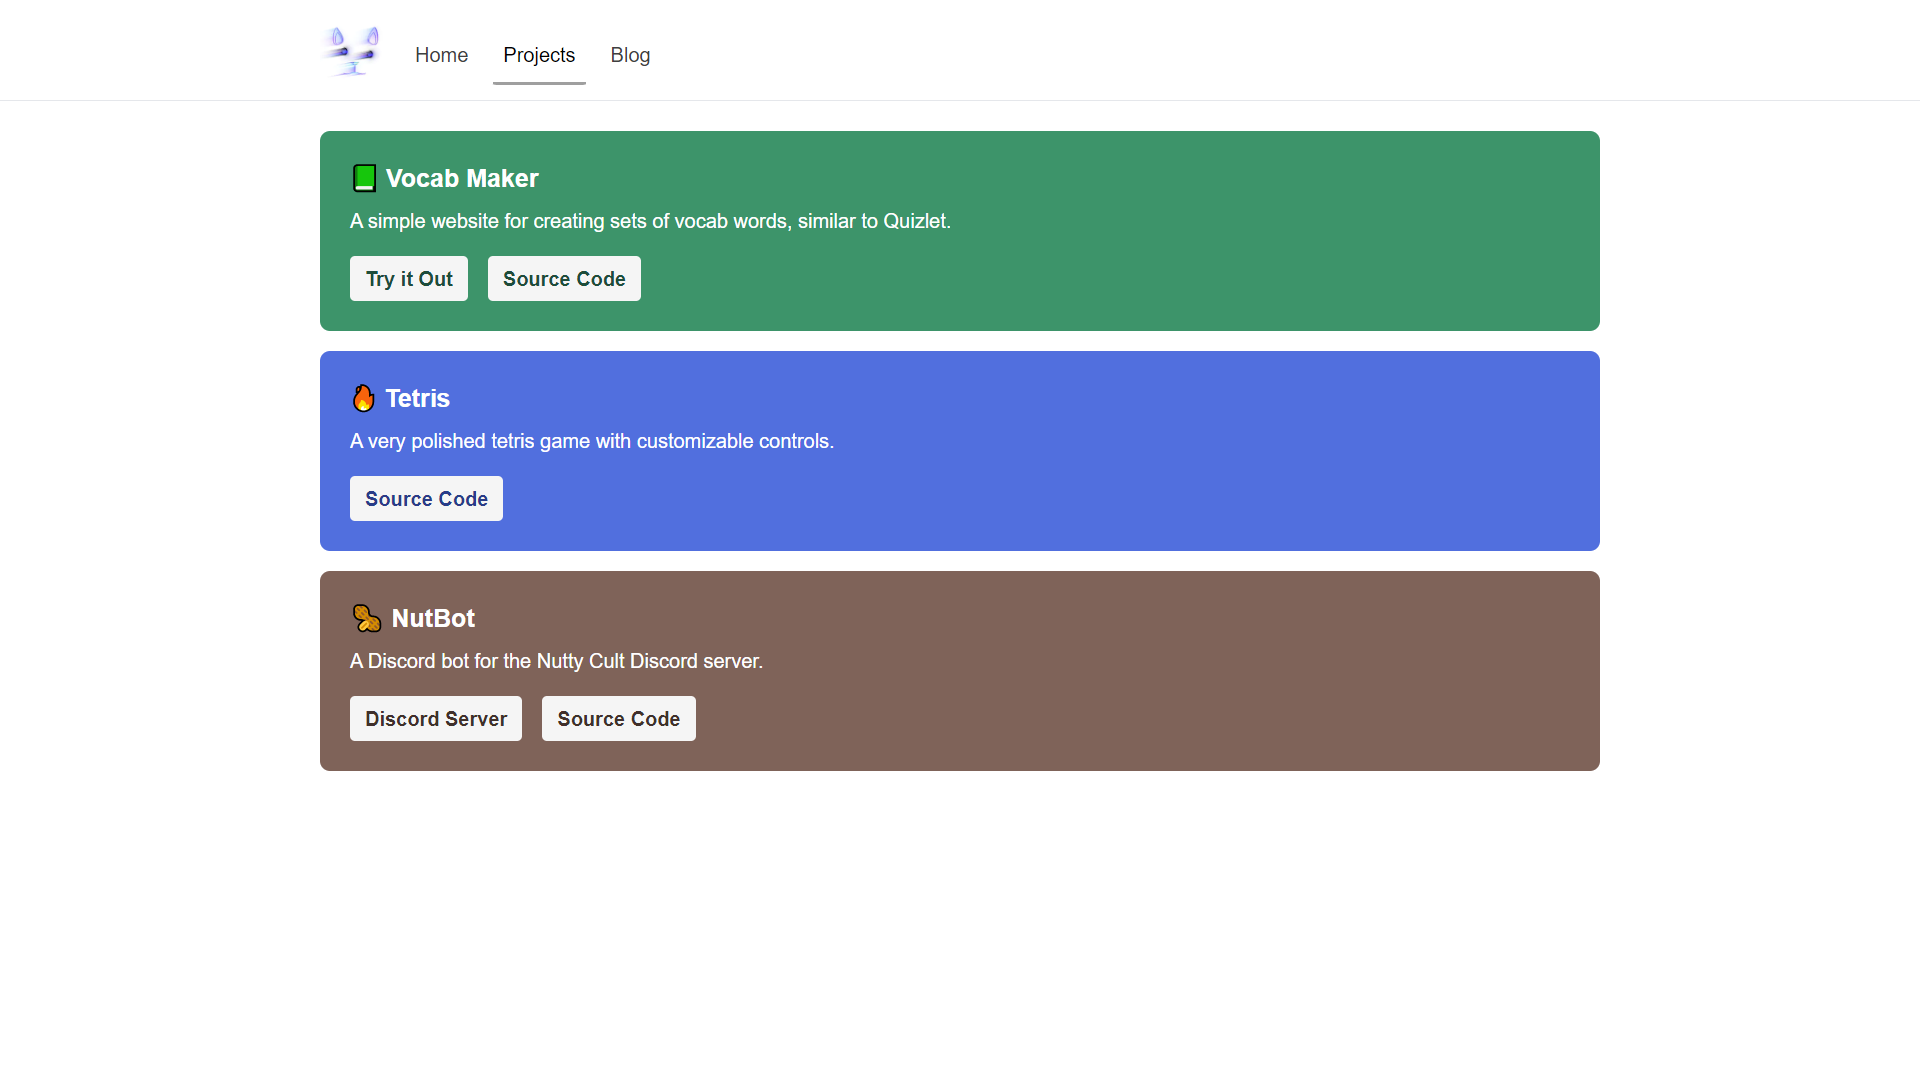
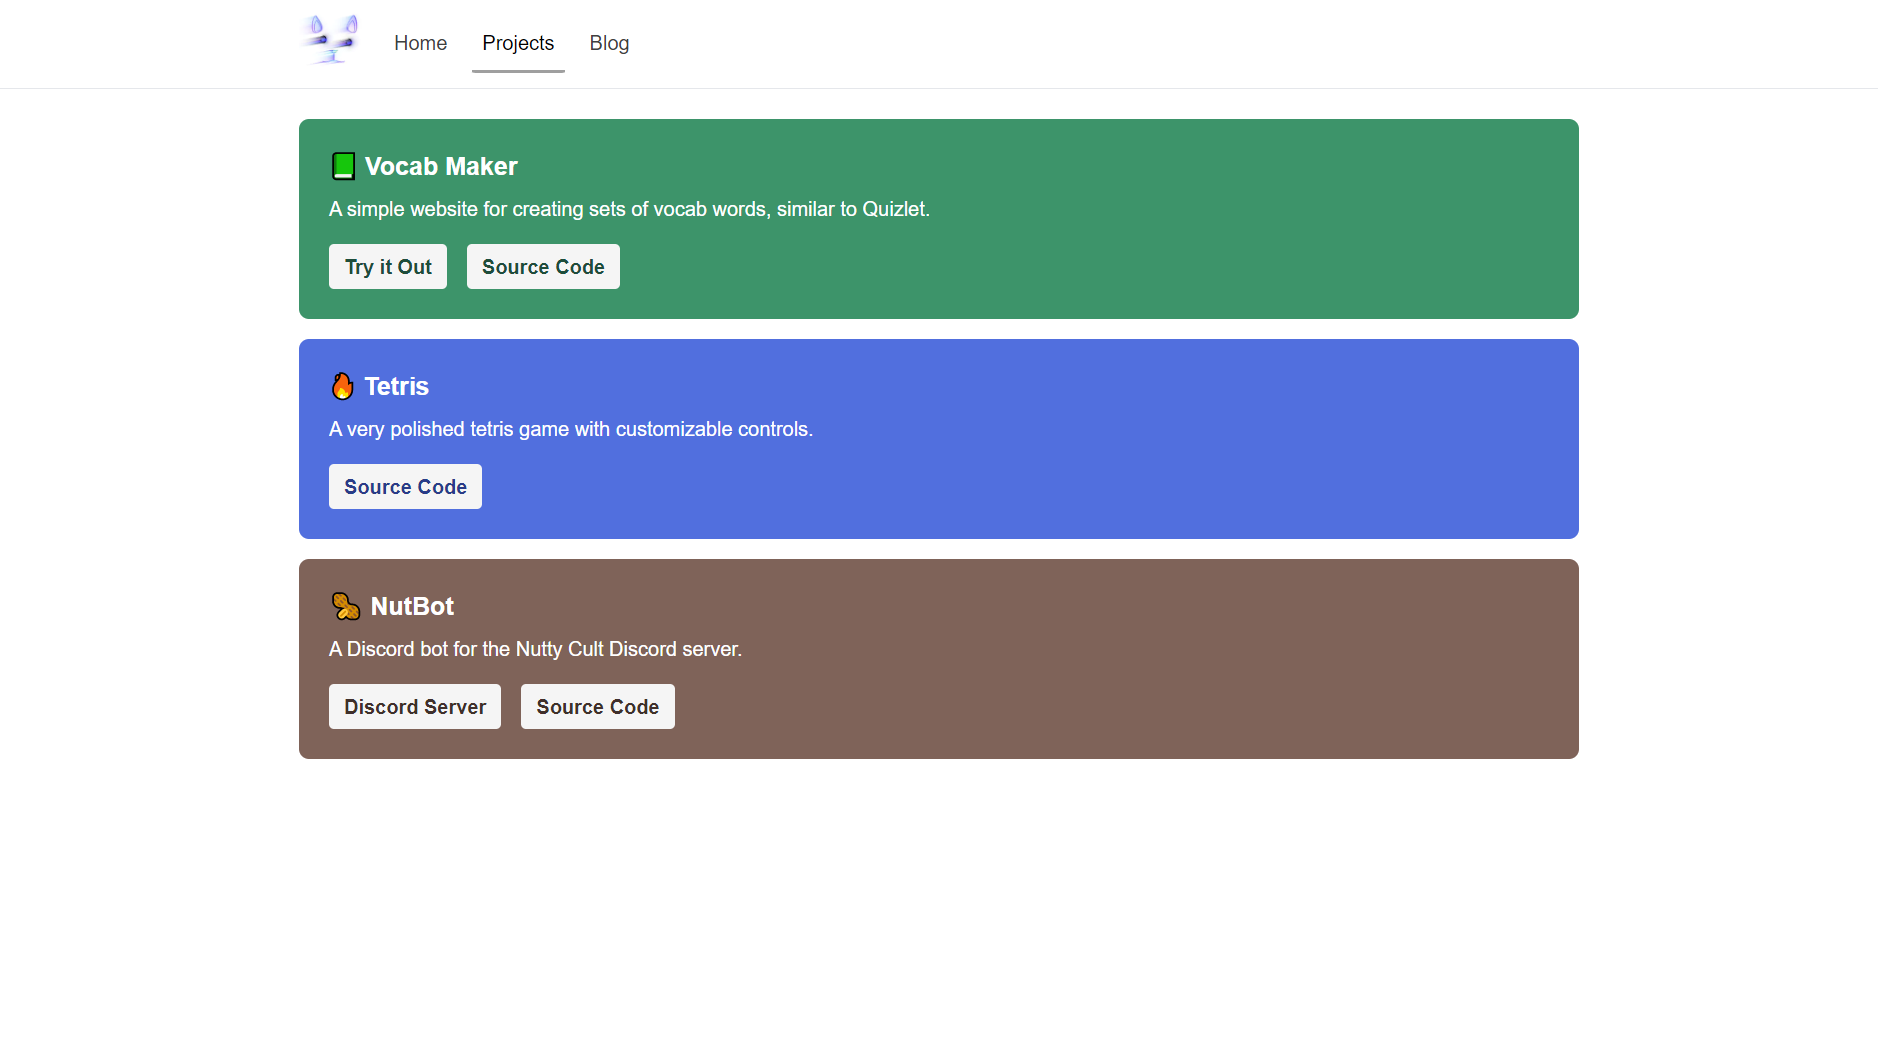
fixed an images proportions

Changed region(s): [[0.1544, 0.0, 0.8647, 0.7188]]

diff --git a/readme.md b/readme.md
@@ -1,6 +1,6 @@
 # Personal Portfolio
 
-![](https://img.shields.io/badge/Made%20with-HTML/CSS/JS-yellow.svg?style=flat-square) ![](https://img.shields.io/github/repo-size/ExternalHost0/Personal-Portfolio-v2?color=yellow&style=flat-square)
+![](https://img.shields.io/badge/Made%20with-HTML/CSS/JS-yellow.svg?style=flat-square) ![](https://img.shields.io/github/repo-size/ExternalHost0/Personal-Portfolio-v2?color=yellow&style=flat-square) ![](https://img.shields.io/github/last-commit/ExternalHost0/Personal-Portfolio-v2?color=yellow&style=flat-square)
 
 
 ## Welcome to the readme file!
